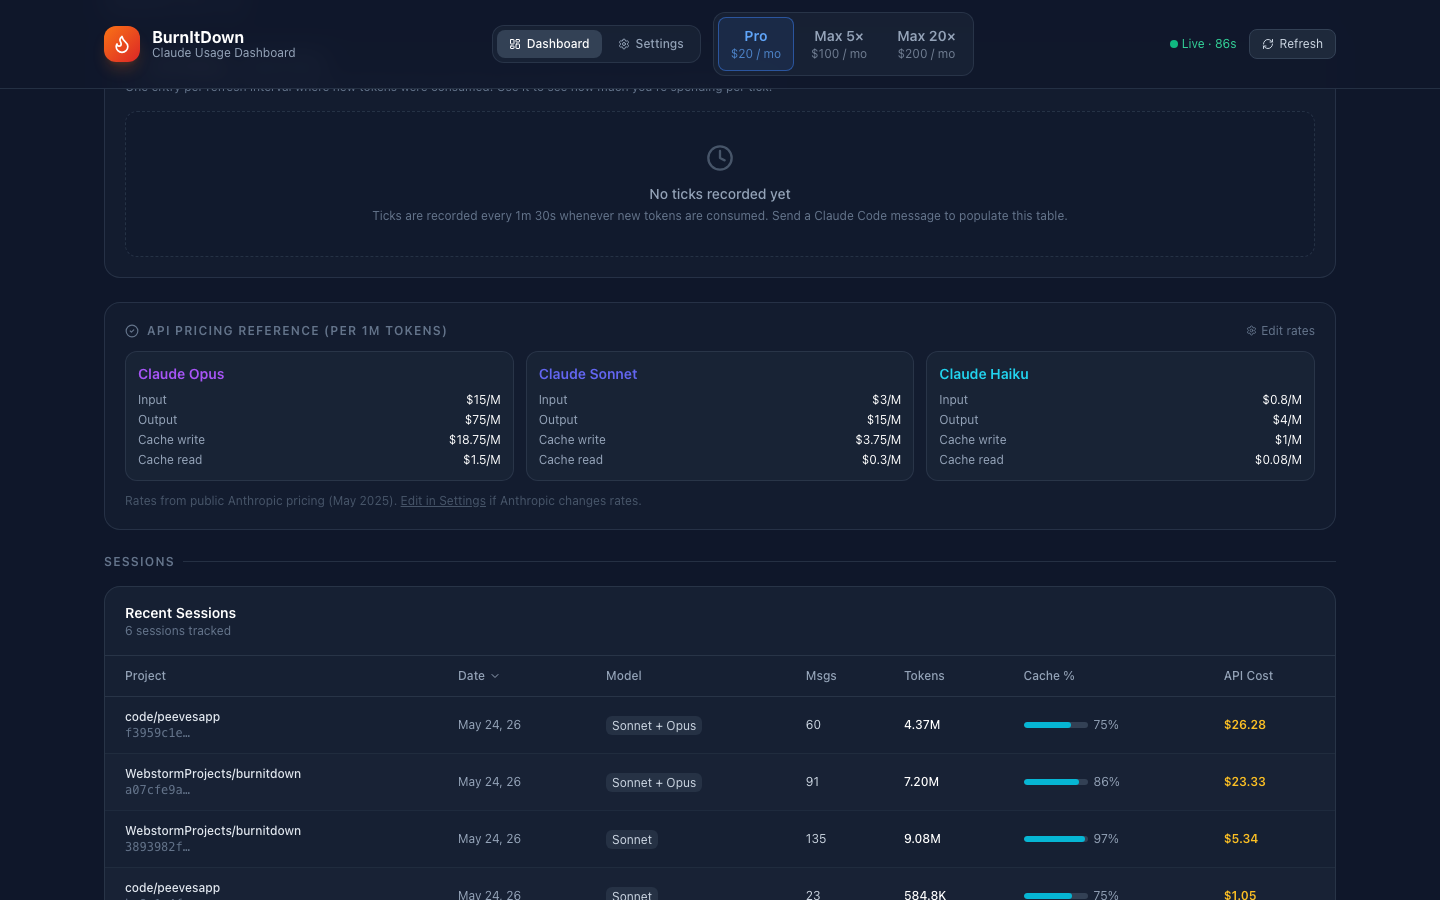
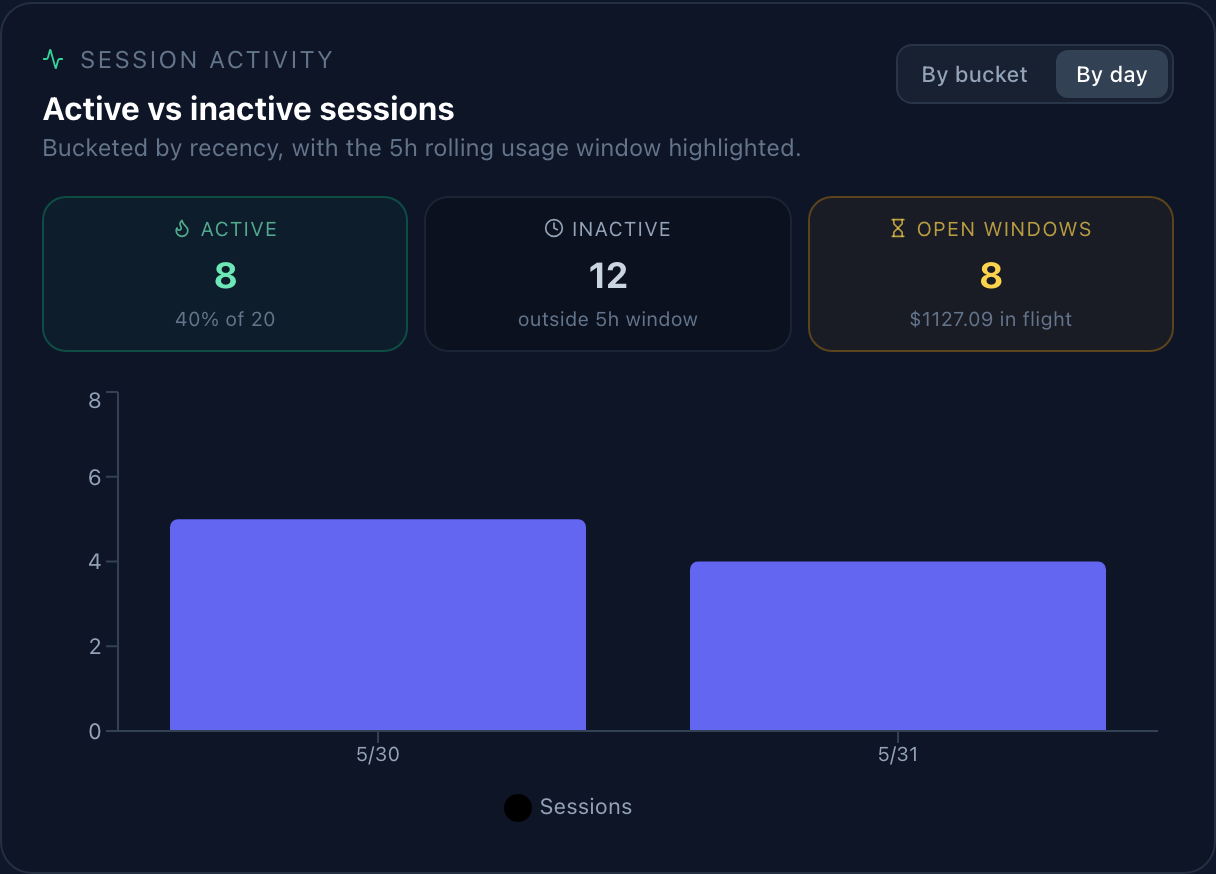
Refresh tick-history screenshot from current dashboard
Recapture docs/screenshot-tick-history.png from the live Session activity
card in its "By day" view (the per-day usage history). Add
scripts/shot-tick-history.js to regenerate it.

diff --git a/scripts/shot-tick-history.js b/scripts/shot-tick-history.js
@@ -1,0 +1,41 @@
+/**
+ * Capture docs/screenshot-tick-history.png — the Session activity card in its
+ * "By day" (timeline) view, which is the dashboard's per-day usage history.
+ *
+ * Assumes the dev stack is running (React on :3005, API proxied on :3001).
+ *   node scripts/shot-tick-history.js
+ */
+const { chromium } = require('playwright');
+
+const URL = process.env.SHOT_URL || 'http://localhost:3005';
+
+(async () => {
+  const browser = await chromium.launch();
+  const page = await browser.newPage({
+    viewport: { width: 1440, height: 1024 },
+    deviceScaleFactor: 2,
+  });
+
+  await page.goto(URL, { waitUntil: 'networkidle', timeout: 60000 });
+  await page.getByRole('heading', { name: /ClaudeWatch/i }).first().waitFor({ timeout: 60000 });
+
+  const timelineBtn = page.getByTestId('activity-mode-timeline');
+  await timelineBtn.scrollIntoViewIfNeeded();
+  await timelineBtn.click();
+  await page.waitForTimeout(2000); // let the bar chart animate in
+
+  // Frame the activity-chart card (nearest rounded container around the toggle).
+  const card = timelineBtn.locator('xpath=ancestor::div[contains(@class,"rounded-2xl")][1]');
+  if (await card.count()) {
+    await card.first().screenshot({ path: 'docs/screenshot-tick-history.png' });
+  } else {
+    await page.screenshot({ path: 'docs/screenshot-tick-history.png', fullPage: true });
+  }
+  console.log('wrote docs/screenshot-tick-history.png');
+
+  await browser.close();
+  console.log('TICK_SHOT_DONE');
+})().catch((e) => {
+  console.error('TICK_SHOT_ERROR', e);
+  process.exit(1);
+});